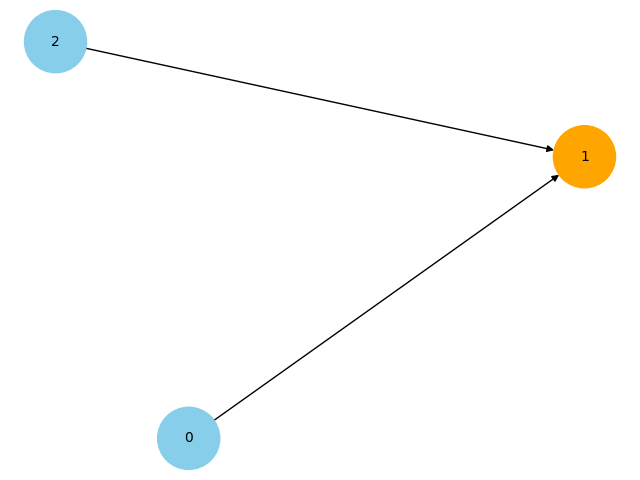
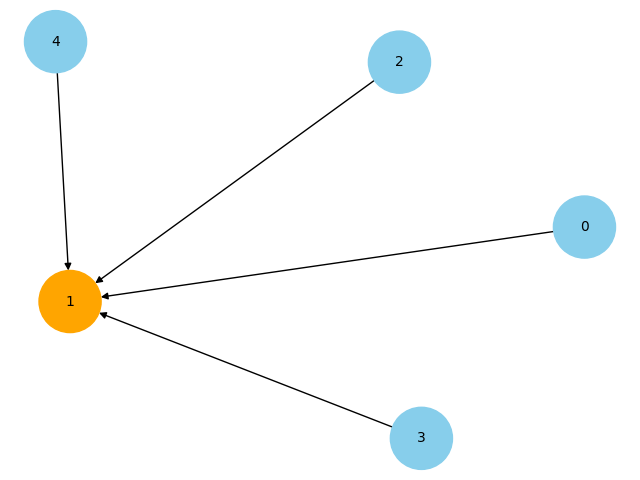
build MSO

diff --git a/run_mktrap_3_3.py b/run_mktrap_3_3.py
@@ -5,10 +5,23 @@ import networkx as nx
 import matplotlib.pyplot as plt
 import os
 
+# 定義 ANSI 轉義碼
+class Color:
+    PURPLE = '\033[95m'
+    CYAN = '\033[96m'
+    DARKCYAN = '\033[36m'
+    BLUE = '\033[94m'
+    GREEN = '\033[92m'
+    YELLOW = '\033[93m'
+    RED = '\033[91m'
+    BOLD = '\033[1m'
+    UNDERLINE = '\033[4m'
+    END = '\033[0m'
+
 # 定義問題相關的參數
 ell = 6  # 基因數量
-population_size = 10  # 基因組個數
-num_generations = 10 # 代數
+population_size = 5  # 基因組個數
+num_generations = 5 # 代數
 
 first_gen = True
 NFE = 0
@@ -120,21 +133,21 @@ NFE = 0
 for generation in range(num_generations):
     if first_gen:
         for i in range(population_size):
-            GHC(population[i])
+            # GHC(population[i])
             population_fitness_dict.setdefault(str(population[i]), mk_trap_fitness(population[i]))
             first_gen = False
     else:
         flag = True
         while flag:
             new_ch = [random.randint(0, 1) for _ in range(ell)]
-            GHC(new_ch)
+            # GHC(new_ch)
             ch_count = len(population_fitness_dict)
             population_fitness_dict.setdefault(str(new_ch), mk_trap_fitness(new_ch))
             if len(population_fitness_dict) == ch_count + 1:
                 break
     
     
-    print("第"+str(generation+1)+" gen"+"已出現"+str(len(population_fitness_dict))+"條不同的ch")
+    print("第"+str(generation+1)+" gen "+"已出現 "+str(len(population_fitness_dict))+" 條不同的ch")
     
     population_fitness_list = list(population_fitness_dict.items())
 
@@ -213,7 +226,7 @@ for generation in range(num_generations):
 
     print("one_layer_arrow", one_layer_arrow)
 
-    def plot_tree(j, depth, one_layer_arrow):
+    def plot_tree(j, one_layer_arrow):
         G = nx.DiGraph()
         for k in one_layer_arrow[j]:
             # des = str(j) + "'"*depth
@@ -238,10 +251,75 @@ for generation in range(num_generations):
 
     depth = 0
     for j in range(ell): 
-        plot_tree(j, depth, one_layer_arrow)
+        plot_tree(j, one_layer_arrow)
 
-           
+    # build SO
+    SO_list = []
+    for i in range(ell):
+        SO_set = set()
+        SO_set.add(i)
+
+        def next_arrow(des, current_source_arrow):
+            if len(current_source_arrow) == 0:
+                return
+            
+            count = len(one_layer_arrow[des])
+            for sou in one_layer_arrow[des]:
+                if sou not in SO_set:
+                    SO_set.add(sou)
+                else:
+                    count -= 1
+            
+            if count == 0:
+                return
+
+            for next_des in current_source_arrow:
+                next_arrow(next_des, one_layer_arrow[next_des])
+
+        next_arrow(i, one_layer_arrow[i])
+        SO_list.append(SO_set)
+
+    print("SO: ", SO_list)
+
+    # Test SO & MSO
+    # SO_list = [{0, 1, 2 , 4}, {1, 2, 3}, {1, 2, 3}, {3}, {0, 4}, {0, 3, 4, 5}]
+    # print("SO: ", SO_list)
+
     # build MSO
+    MSO_list = []
+    for des in range(ell):
+        target_index = 10000
+        min_len = 10000
+        for i in range(ell):
+            if des in SO_list[i]:
+                SO_len = len(SO_list[i])
+                if SO_len < min_len: # 還沒處理相同大小的情況
+                    target_index = i
+                    min_len = len(SO_list[i])
+        
+        MSO_list.append(SO_list[target_index]) 
+
+    print("MSO: ", MSO_list)
+
+
+    if MSO_list != SO_list:
+        print(Color.RED + "找到了SO與MSO不同的case了！！" + Color.END)
+
+      
+                
+
+
+
+
+
+
+
+
+        
+
+        
+
+
 
 
 
